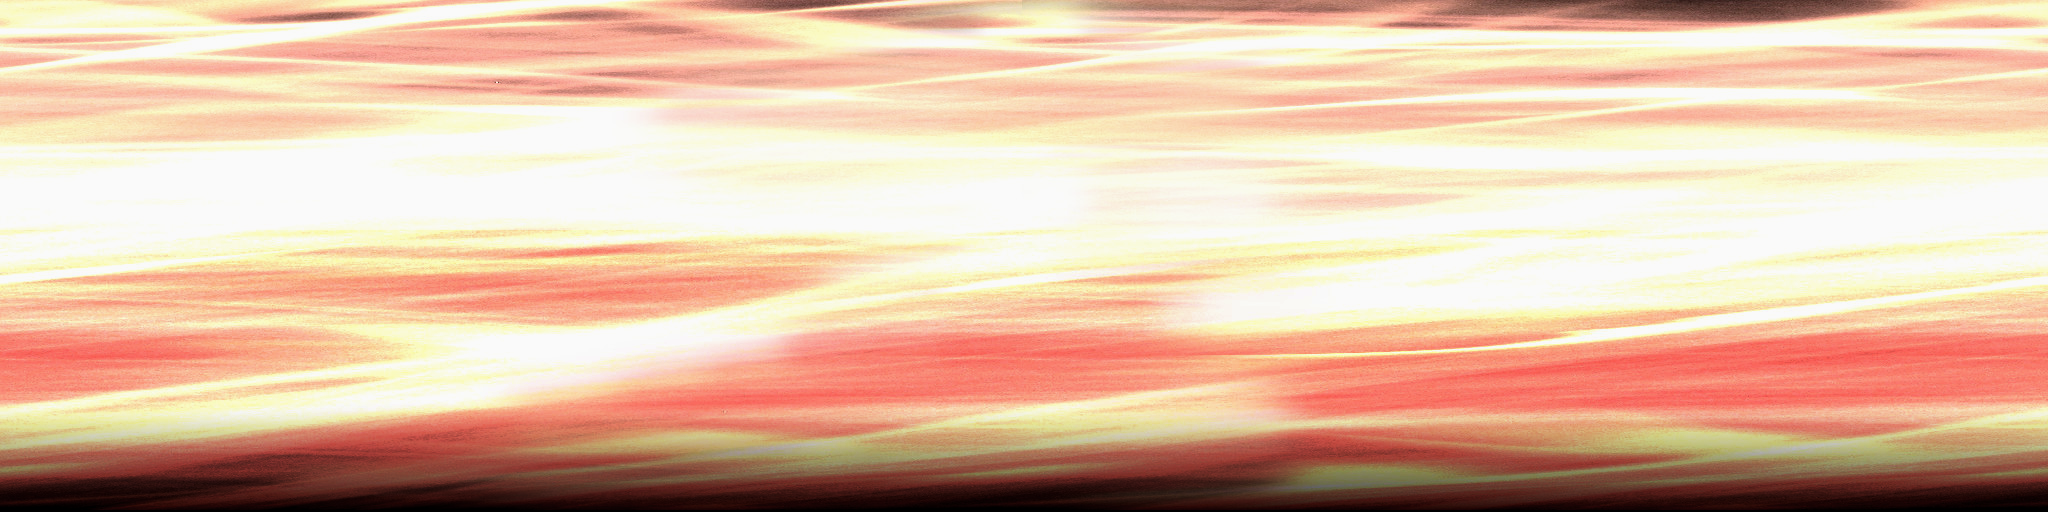
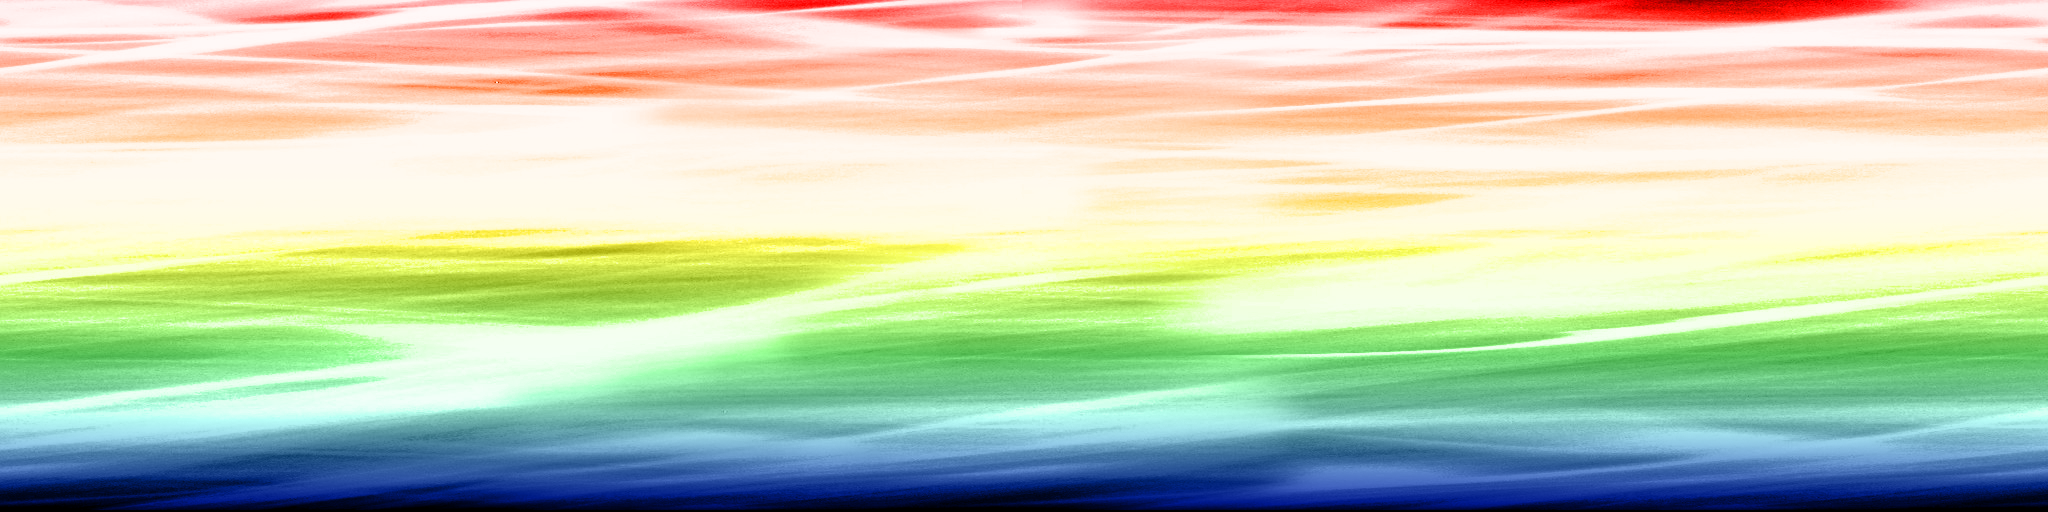
changes to img binary, changed its colors to match c8s colors

diff --git a/src/components/BlackholeBackground.tsx b/src/components/BlackholeBackground.tsx
@@ -222,7 +222,7 @@ export default function BlackholeBackground() {
     // --- Post-processing ---
     const composer = new EffectComposer(renderer);
     const renderPass = new RenderPass(scene, camera);
-    const bloomPass = new UnrealBloomPass(new THREE.Vector2(128, 128), 0.1, 2.0, 0.0);
+    const bloomPass = new UnrealBloomPass(new THREE.Vector2(128, 128), 0.3, 1.0, 0.0);
     const shaderPass = new ShaderPass(CopyShader);
     shaderPass.renderToScreen = true;
     composer.addPass(renderPass);
@@ -273,7 +273,7 @@ export default function BlackholeBackground() {
 
     // --- Observer state ---
     const INCLINE = -5 * Math.PI / 180;
-    const CAM_DISTANCE = 12;
+    const CAM_DISTANCE = 15;
     let theta = 0;
     let angularVelocity = 0;
     const maxAngularVelocity = 1 / Math.sqrt(2.0 * (CAM_DISTANCE - 1.0)) / CAM_DISTANCE;
@@ -314,6 +314,10 @@ export default function BlackholeBackground() {
     setDirection(pitch, yaw);
 
     // --- Mouse handlers ---
+    const onSelectStart = (e: Event) => {
+      if (dragging) e.preventDefault();
+    };
+
     const onMouseDown = (e: MouseEvent) => {
       // Only handle left button clicks that aren't on UI elements
       if (e.button !== 0) return;
@@ -394,6 +398,7 @@ export default function BlackholeBackground() {
     window.addEventListener('mousedown', onMouseDown);
     window.addEventListener('mouseup', onMouseUp);
     window.addEventListener('mousemove', onMouseMove);
+    window.addEventListener('selectstart', onSelectStart);
     renderer.domElement.addEventListener('dblclick', onDblClick);
     renderer.domElement.addEventListener('wheel', onWheel, { passive: false });
     renderer.domElement.addEventListener('contextmenu', onContextMenu);
@@ -406,10 +411,10 @@ export default function BlackholeBackground() {
 
     const updateObserver = (delta: number) => {
       if (orbiting) {
-        if (angularVelocity < maxAngularVelocity * 0.35)
+        if (angularVelocity < maxAngularVelocity * 1)
           angularVelocity += delta / CAM_DISTANCE;
         else
-          angularVelocity = maxAngularVelocity * 0.35;
+          angularVelocity = maxAngularVelocity * 1;
       } else {
         if (angularVelocity > 0)
           angularVelocity -= delta / CAM_DISTANCE;
@@ -485,6 +490,7 @@ export default function BlackholeBackground() {
       window.removeEventListener('mousedown', onMouseDown);
       window.removeEventListener('mouseup', onMouseUp);
       window.removeEventListener('mousemove', onMouseMove);
+      window.removeEventListener('selectstart', onSelectStart);
       renderer.domElement.removeEventListener('dblclick', onDblClick);
       renderer.domElement.removeEventListener('wheel', onWheel);
       renderer.domElement.removeEventListener('contextmenu', onContextMenu);
